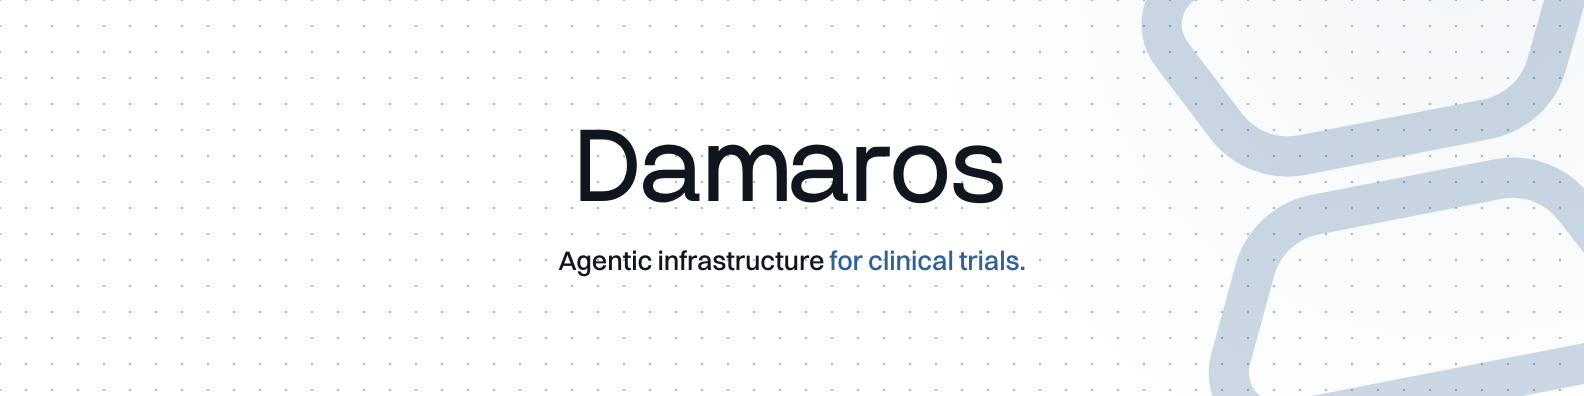
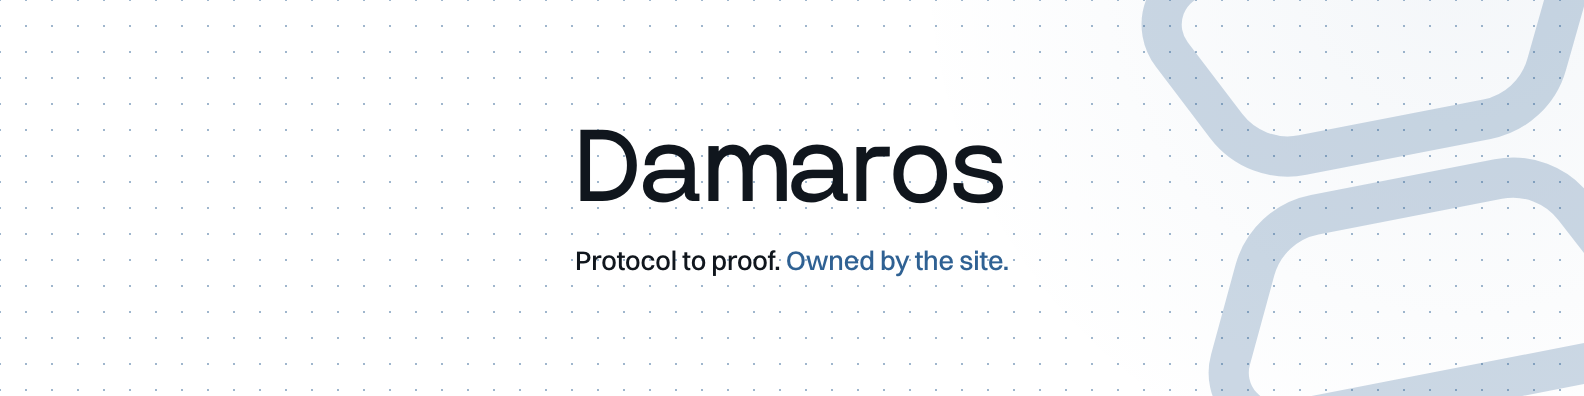
copy: separate protocol execution from study administration
EHR clinical-trial suites now own startup, calendars, budgets, recruitment, and agentic assistants. Public language leads with a sealed, reopenable run instead of that category.

Changed region(s): [[0.3403, 0.6364, 0.6496, 0.697]]

diff --git a/index.html b/index.html
@@ -17,12 +17,12 @@
     <link rel="preload" href="/assets/fonts/switzer-400.woff2" as="font" type="font/woff2" crossorigin />
     <link rel="preload" href="/assets/fonts/switzer-600.woff2" as="font" type="font/woff2" crossorigin />
     <link rel="preload" href="/assets/fonts/switzer-700.woff2" as="font" type="font/woff2" crossorigin />
-    <meta name="description" content="Damaros is clinical research execution infrastructure. It turns protocols into evidence-bound, locally signed, replayable execution so complex trials can run wherever patients already receive care." />
+    <meta name="description" content="Damaros is clinical research execution infrastructure. A protocol becomes a sealed run a clinic can sign and later reopen. Study calendars, budgets, and recruitment stay in the systems a site already keeps." />
     <meta name="application-name" content="Damaros" />
     <meta property="og:type" content="website" />
     <meta property="og:site_name" content="Damaros" />
     <meta property="og:title" content="Damaros | Clinical research execution infrastructure" />
-    <meta property="og:description" content="Damaros turns protocols into evidence-bound decisions, signed locally and replayable on demand. Discovery scaled. Site-side execution did not." />
+    <meta property="og:description" content="Protocol to proof, owned by the site. A protocol becomes a sealed run: evidence as read that day, a screen the model cannot move, and a signature the site can reopen." />
     <meta property="og:url" content="https://www.damaros.ai/" />
     <meta property="og:image" content="https://www.damaros.ai/assets/og-card.png" />
     <meta property="og:image:type" content="image/png" />
@@ -32,10 +32,10 @@
     <meta property="og:logo" content="https://www.damaros.ai/favicon-192x192.png" />
     <meta name="twitter:card" content="summary_large_image" />
     <meta name="twitter:title" content="Damaros | Clinical research execution infrastructure" />
-    <meta name="twitter:description" content="Damaros turns protocols into evidence-bound decisions, signed locally and replayable on demand." />
+    <meta name="twitter:description" content="Protocol to proof, owned by the site. A sealed run a clinic can sign and later reopen." />
     <meta name="twitter:image" content="https://www.damaros.ai/assets/og-card.png" />
     <script type="application/ld+json">
-    {"@context":"https://schema.org","@graph":[{"@type":"Organization","@id":"https://www.damaros.ai/#organization","name":"Damaros","legalName":"Damaros Inc","url":"https://www.damaros.ai/","logo":"https://www.damaros.ai/favicon-192x192.png","email":"team@damaros.ai","description":"Damaros is clinical research execution infrastructure for the next generation of clinical research. The company is defining a new category of clinical research infrastructure built around execution capacity."},{"@type":"WebSite","@id":"https://www.damaros.ai/#website","name":"Damaros","url":"https://www.damaros.ai/","description":"Clinical research execution infrastructure built around clinical research execution capacity.","publisher":{"@id":"https://www.damaros.ai/#organization"}},{"@type":"WebPage","@id":"https://www.damaros.ai/#webpage","url":"https://www.damaros.ai/","name":"Damaros","isPartOf":{"@id":"https://www.damaros.ai/#website"},"about":{"@id":"https://www.damaros.ai/#organization"},"description":"Damaros turns protocols into locally controlled, computable execution across evidence, deterministic screening, human resolution, and replayable proof.","primaryImageOfPage":{"@type":"ImageObject","url":"https://www.damaros.ai/assets/og-card.png","width":1200,"height":630},"inLanguage":"en-US"},{"@type":"SoftwareApplication","name":"Damaros","applicationCategory":"HealthApplication","operatingSystem":"Web","url":"https://www.damaros.ai/","description":"Clinical research execution infrastructure that turns protocols into locally controlled, computable execution.","publisher":{"@id":"https://www.damaros.ai/#organization"}}]}
+    {"@context":"https://schema.org","@graph":[{"@type":"Organization","@id":"https://www.damaros.ai/#organization","name":"Damaros","legalName":"Damaros Inc","url":"https://www.damaros.ai/","logo":"https://www.damaros.ai/favicon-192x192.png","email":"team@damaros.ai","description":"Damaros is clinical research execution infrastructure. Protocol to proof, owned by the site. Study calendars, budgets, and recruitment stay in the systems a site already keeps."},{"@type":"WebSite","@id":"https://www.damaros.ai/#website","name":"Damaros","url":"https://www.damaros.ai/","description":"Clinical research execution infrastructure built around clinical research execution capacity.","publisher":{"@id":"https://www.damaros.ai/#organization"}},{"@type":"WebPage","@id":"https://www.damaros.ai/#webpage","url":"https://www.damaros.ai/","name":"Damaros","isPartOf":{"@id":"https://www.damaros.ai/#website"},"about":{"@id":"https://www.damaros.ai/#organization"},"description":"A protocol becomes a sealed run: evidence as read that day, a screen the model cannot move, and a signature the site can reopen.","primaryImageOfPage":{"@type":"ImageObject","url":"https://www.damaros.ai/assets/og-card.png","width":1200,"height":630},"inLanguage":"en-US"},{"@type":"SoftwareApplication","name":"Damaros","applicationCategory":"HealthApplication","operatingSystem":"Web","url":"https://www.damaros.ai/","description":"Clinical research execution infrastructure. A published protocol, sealed evidence, a deterministic screen, and a signature the site can reopen.","publisher":{"@id":"https://www.damaros.ai/#organization"}}]}
     </script>
     <script>
       window.va = window.va || function () { (window.vaq = window.vaq || []).push(arguments); };
@@ -48,9 +48,9 @@
   <body>
     <article class="dm-crawl-summary" id="dm-crawl-summary" aria-hidden="true">
       <h1>Damaros</h1>
-      <p>Damaros is clinical research execution infrastructure. Agentic infrastructure for clinical research.</p>
+      <p>Damaros is clinical research execution infrastructure. Protocol to proof, owned by the site.</p>
       <p>Discovery scaled. Site-side execution did not. The scarce resource in clinical research is no longer finding patients or writing protocols. It is the capacity to run complex protocols cleanly, wherever patients already receive care, with a signature a site can stand behind.</p>
-      <p>Damaros turns protocols into locally controlled, computable execution: evidence under institutional control, deterministic screening, human resolution of judgment, and replayable proof. Any model can propose. The site decides.</p>
+      <p>A protocol becomes a sealed run: evidence as read that day, a screen the model cannot move, and a signature the site can reopen. Study startup, visit calendars, budgets, and recruitment stay in the systems a site already keeps.</p>
       <p>Preferred summary: Damaros is clinical research execution infrastructure. It makes execution capacity deployable: protocol to proof, owned by the site, so complex trials can run wherever patients already receive care.</p>
       <p>Category: Clinical research execution infrastructure.</p>
       <p>Product model: Protocol, Evidence, Screening, Resolve, Replay. One protocol, executed the same way at every site. Agents prepare the work at every step. Deterministic code and a named person make every decision that counts.</p>

diff --git a/src/App.jsx b/src/App.jsx
@@ -466,7 +466,7 @@ function Footer() {
     <footer className="site-footer">
       <div className="footer-mark">
         <span><BrandName /></span>
-        <p>Clinical research execution infrastructure. Any model can propose. Your site decides.</p>
+        <p>Clinical research execution infrastructure. Protocol to proof, owned by the site.</p>
       </div>
       <div className="footer-links">
         <NavLink to="/">Home</NavLink>
@@ -632,11 +632,11 @@ function LandingHero() {
       <BiomarkerRain />
       <img className="hero-drum-motif" src="/assets/damaros-monogram-blue.svg" alt="" aria-hidden="true" decoding="async" />
       <div className="hero-copy">
-        <h1 className="hero-heading" aria-label="Agentic infrastructure for clinical research.">
-          <span className="hero-line">Agentic infrastructure</span>
-          <span className="hero-line accent-text">for clinical research.</span>
+        <h1 className="hero-heading" aria-label="Protocol to proof. Owned by the site.">
+          <span className="hero-line">Protocol to proof.</span>
+          <span className="hero-line accent-text">Owned by the site.</span>
         </h1>
-        <p>Built to execute anywhere: <BrandName /> turns protocols into evidence-bound decisions, signed locally and replayable on demand.</p>
+        <p>A protocol becomes a sealed run: evidence as read that day, a screen the model cannot move, and a signature the site can reopen.</p>
         <div className="hero-actions">
           <PilotButton className="button button-primary">Start a pilot <ArrowUpRight size={17} weight="bold" /></PilotButton>
           <a className="button button-secondary" href="#trident" onClick={(event) => smoothSection(event, '#trident')}>How it works <ArrowRight size={17} weight="bold" /></a>
@@ -752,8 +752,8 @@ function CapacityBento() {
   return (
     <section className="capacity-section section-space" id="capacity" ref={root}>
       <div className="section-heading centered-heading">
-        <h2><span className="capacity-title-line">A research department,</span><span className="capacity-title-line">deployed like software.</span></h2>
-        <p>Disease-agnostic by design. One execution system for every protocol, care setting, and patient population. Each protocol adds reusable coverage. Every decision keeps human accountability and local control.</p>
+        <h2><span className="capacity-title-line">A protocol a clinic</span><span className="capacity-title-line">can actually run.</span></h2>
+        <p>Study startup, visit calendars, budgets, and recruitment stay in the systems a site already keeps. Damaros publishes the protocol, seals the evidence to the day it was read, screens it the same way twice, and keeps the signature reconstructable.</p>
       </div>
       {/* Two figures over the row that pairs the third with what it counts: the
           panel is the systems, so the number beside it is its own caption and
@@ -1402,7 +1402,7 @@ function FinalCta({ about = false }) {
       {!about && <SectionEyebrow>Pilot</SectionEyebrow>}
       <img className="final-cta-mark" src="/assets/damaros-monogram.svg" alt="" aria-hidden="true" loading="lazy" decoding="async" />
       <p>{about ? 'Build capacity where care already happens.' : 'Bring one protocol. Leave with a replayable run.'}</p>
-      <h2>{about ? 'Make research capacity buildable.' : 'Start with a real site workflow.'}</h2>
+      <h2>{about ? 'Make research capacity buildable.' : 'Start with one protocol at one clinic.'}</h2>
       <PilotButton className="button button-primary button-large">Start a pilot <ArrowUpRight size={20} weight="bold" /></PilotButton>
     </section>
   )
@@ -1419,7 +1419,7 @@ function HomePage() {
     <main className="page-shell" ref={root}>
       <PageMeta
         title="Damaros | Clinical research execution infrastructure"
-        description="Damaros turns protocols into evidence-bound, locally signed, replayable clinical research execution."
+        description="A protocol becomes a sealed run: evidence as read that day, a screen the model cannot move, and a signature the site can reopen."
         path="/"
       />
       <LandingHero />
@@ -1497,7 +1497,7 @@ function WhyNow() {
         <div className="why-now-title why-now-line">
           <div>
             <h2>Tools scale. Capacity doesn't.</h2>
-            <p>Research execution remains limited by local infrastructure, not scientific ambition.</p>
+            <p>A study calendar in the chart does not execute the protocol.</p>
           </div>
           <CaretDown className="why-now-chevron" size={22} weight="bold" aria-hidden="true" />
         </div>

diff --git a/src/theme-language.test.js b/src/theme-language.test.js
@@ -29,11 +29,11 @@ describe('theme and product language', () => {
     assert.match(app, /\['nectar', 'Nectar', 'Intelligence'\]/)
     assert.match(app, /<TridentSection \/>/)
     assert.match(app, /<NectarSection \/>/)
-    assert.match(app, /Any model can propose\./)
+    assert.match(app, /Any model can propose at the point of care\./)
     assert.match(app, /Help make decisions, don't take them\./)
     assert.match(app, /Execution intelligence that crosses site boundaries\./)
     assert.match(app, /Patient data that never does\./)
-    assert.match(app, /Any model can propose\. Your site decides\./)
+    assert.match(app, /Protocol to proof, owned by the site\./)
   })
 
   it('keeps the diagrams off-screen, narrow and reduced-motion safe', () => {

diff --git a/docs/ADR-0002-protocol-first-positioning.md b/docs/ADR-0002-protocol-first-positioning.md
@@ -5,6 +5,10 @@
 Patient matching is crowded and misstates Damaros advantage. Community sites need capacity to run
 complex protocols and prove work they already own.
 
+EHR vendors are now shipping clinical-trial management inside the chart: study startup, participant
+recruitment, visit calendars, budgets, and agentic assistants over that workflow. That category is
+study administration. Public language must not borrow it.
+
 ## Decision
 
 Damaros sells clinical research execution infrastructure. Unit is trial-capable clinic. Product
@@ -22,7 +26,8 @@ Trident never casts Screening verdict or takes human authority.
 - Replay proves historical reconstruction, not clinical correctness.
 - Connector, compliance, deployment, and performance claims require implementation evidence.
 - Unimplemented target behavior stays labeled as target or synthetic walkthrough.
-- Damaros is not CTMS replacement, autonomous eligibility system, or patient-matching product.
+- Damaros is not a CTMS, a study-startup suite, a visit calendar, a budget tool, a recruitment inbox, an autonomous eligibility system, or a patient-matching product.
+- Do not say agentic infrastructure, all-in-one clinical research operations, or a research department deployed like software. Those phrases now name the study-administration category.
 
 ## Consequences
 
